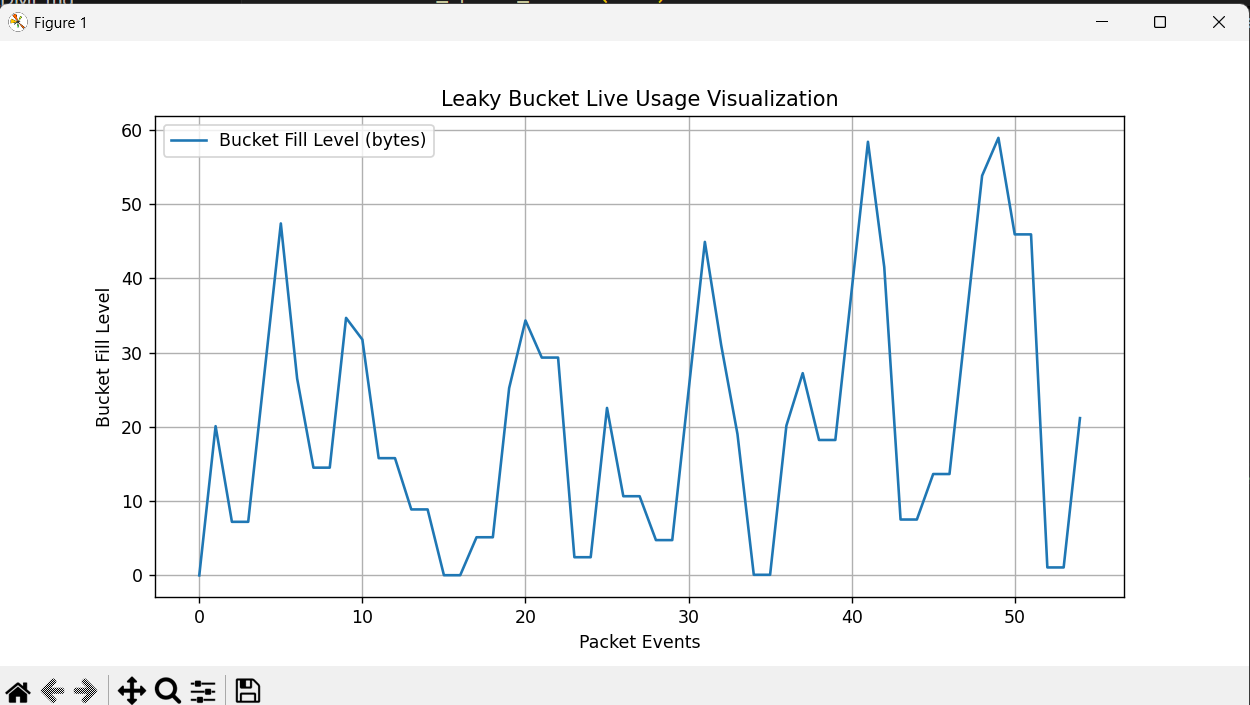
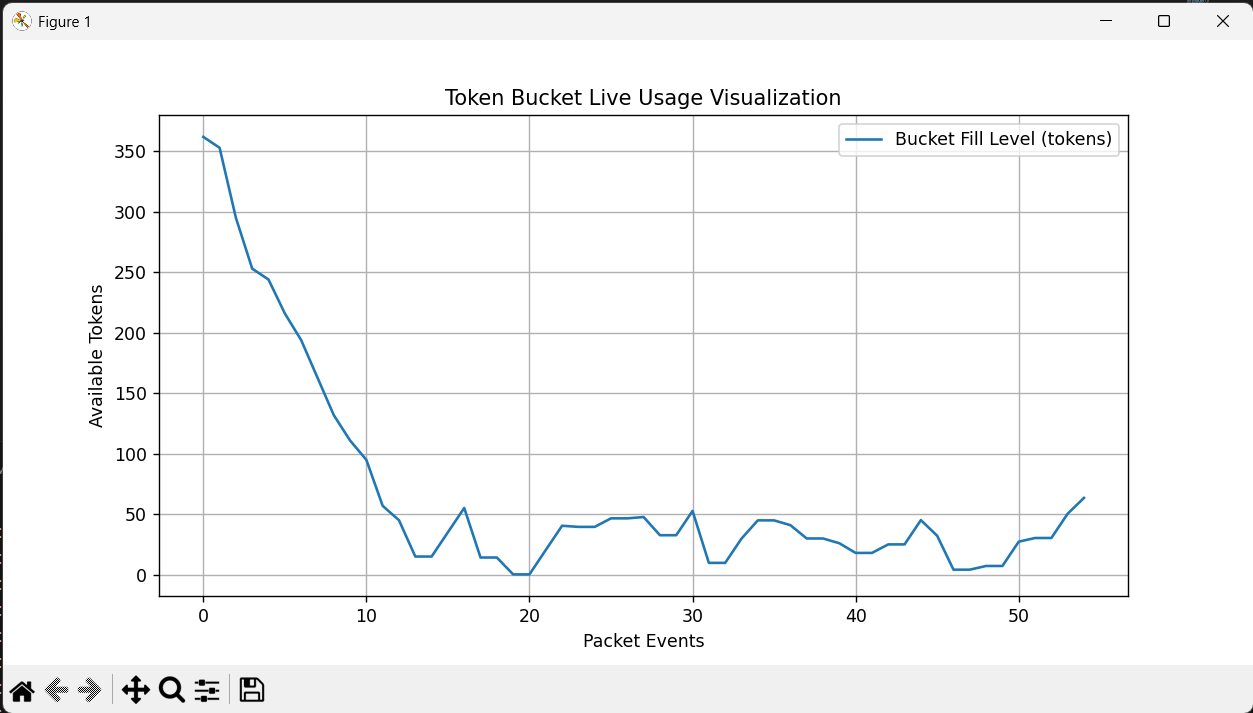
Add files via upload

diff --git a/token_bucket_algoritm.py b/token_bucket_algoritm.py
@@ -1,0 +1,61 @@
+import time
+import random
+import matplotlib.pyplot as plt
+
+class TokenBucket:
+    def __init__(self, token_capacity, token_rate):
+        self.token_capacity = token_capacity  # Maximum tokens in bucket
+        self.token_rate = token_rate          # Tokens added per second
+        self.tokens = token_capacity           # Start full for initial burst
+        self.last_time = time.time()
+        self.allowed_data = []
+        self.denied_data = []
+        self.bucket_fill = []
+
+    def _update_tokens(self):
+        now = time.time()
+        elapsed_time = now - self.last_time
+        new_tokens = elapsed_time * self.token_rate
+        self.tokens = min(self.token_capacity, self.tokens + new_tokens)
+        self.last_time = now
+
+    def allow_request(self, data_bytes):
+        self._update_tokens()
+        if self.tokens >= data_bytes:
+            self.tokens -= data_bytes
+            self.allowed_data.append(data_bytes)
+            self.bucket_fill.append(self.tokens)
+            return True
+        else:
+            self.denied_data.append(data_bytes)
+            self.bucket_fill.append(self.tokens)
+            return False
+
+# Configuration
+bucket = TokenBucket(token_capacity=400, token_rate=100)  # 400 tokens max, refill at 100 tokens/sec
+total_packets = 55
+allowed_total = 0
+denied_total = 0
+
+for _ in range(total_packets):
+    packet_size = random.randint(5, 70)
+    if bucket.allow_request(packet_size):
+        print(f"Packet of {packet_size} bytes allowed.")
+        allowed_total += packet_size
+    else:
+        print(f"Packet of {packet_size} bytes denied. Insufficient tokens.")
+        denied_total += packet_size
+        time.sleep(0.2)
+
+# Visualization
+plt.figure(figsize=(10, 5))
+plt.plot(bucket.bucket_fill, label="Bucket Fill Level (tokens)")
+plt.xlabel("Packet Events")
+plt.ylabel("Available Tokens")
+plt.title("Token Bucket Live Usage Visualization")
+plt.legend()
+plt.grid(True)
+plt.show()
+
+print(f"\nTotal allowed data: {allowed_total} bytes")
+print(f"Total denied data: {denied_total} bytes")

diff --git a/README.md b/README.md
@@ -1,67 +1,66 @@
-# Leaky Bucket Algorithm: Real-Time Bandwidth Monitoring and Rate Limiting in Python
+# Token Bucket Algorithm: Real-Time Bandwidth Monitoring and Rate Limiting in Python
 
 ## Overview
 
-This project implements the Leaky Bucket algorithm for bandwidth monitoring and rate limiting. It features:
+This project implements the **Token Bucket** algorithm for bandwidth monitoring and rate limiting. It features:
 
 - Simulation of network packets
-- Per-connection bandwidth control using a leaky bucket
+- Per-connection bandwidth control using a token bucket
 - Real-time usage visualization with Matplotlib
 
 ## Features
 
 - **Bandwidth Monitor:** Tracks and reports total allowed and denied data.
-- **Rate Limiter:** Uses the Leaky Bucket algorithm to smooth out data bursts.
+- **Rate Limiter:** Uses the Token Bucket algorithm to allow bursts of traffic within the configured rate and capacity.
 - **Dashboard:** Visualizes the fill state of the bucket versus time.
 
 ## How It Works
 
 - Randomly sized "packets" mimic incoming client data.
-- Each packet is checked against the Leaky Bucket's current fill and rate settings.
-- Allowed packets reduce the bucket fill; denied packets simulate bandwidth policing.
-- All bucket fill states are recorded and plotted after the run.
+- Each packet is checked against the Token Bucket's current token and rate settings.
+- Allowed packets consume tokens from the bucket; denied packets simulate bandwidth policing.
+- All bucket token levels are recorded and plotted after the run.
 
 ## Usage
 
 1. **Install dependencies:**
 
-   ```
-   pip install matplotlib
-   ```
+pip install matplotlib
+
+text
 
 2. **Run the script:**
 
-   ```
-   python leaky-bucket-algoritm.py
-   ```
+python token_bucket_algorithm.py
+
+text
 
 3. **Interpret output:**
-   - Console shows allowed/denied packets.
-   - Graph displays bucket usage over all events.
-   - Final totals summarize performance.
+
+- Console shows allowed/denied packets.
+- Graph displays bucket fill level over all events.
+- Final totals summarize performance.
 
 ## Example Output
 
-    Packet of 15 bytes denied. Wait for bucket to drain.
-    Packet of 65 bytes allowed.
-    :
-    :
-    Packet of 68 bytes denied. Wait for bucket to drain..
+Packet of 38 bytes allowed.
+...
+Packet of 56 bytes denied. Insufficient tokens.
+Packet of 7 bytes allowed.
 
-    Total allowed data: 582 bytes
-    Total denied data: 1505 bytes
+Total allowed data: 798 bytes
+Total denied data: 1058 bytes
 
-Leaky Bucket Live Usage Visualization![alt text](image.png)
+text
+
+![Token Bucket Live Usage Visualization](image.png)
 
 ## Customization
 
-- Change `capacity` and `rate` in the script to tune bandwidth and burst tolerance.
+- Change `token_capacity` and `token_rate` in the script to tune bandwidth and burst tolerance.
 - Replace the simulation loop with real network data to enforce actual bandwidth limitations.
 
 ## References
 
-- [GeeksforGeeks: Leaky Bucket Algorithm](https://www.geeksforgeeks.org/computer-networks/leaky-bucket-algorithm/)
-- [GitHub: Leaky Bucket Python Example](https://github.com/sserkanml/leaky-bucket-algorithm)
-
-
-
+- [GeeksforGeeks: Token Bucket Algorithm](https://www.geeksforgeeks.org/computer-networks/token-bucket-algorithm/)
+- [Token Bucket Algorithm Example on GitHub](https://github.com/bbeck/token-bucket)
